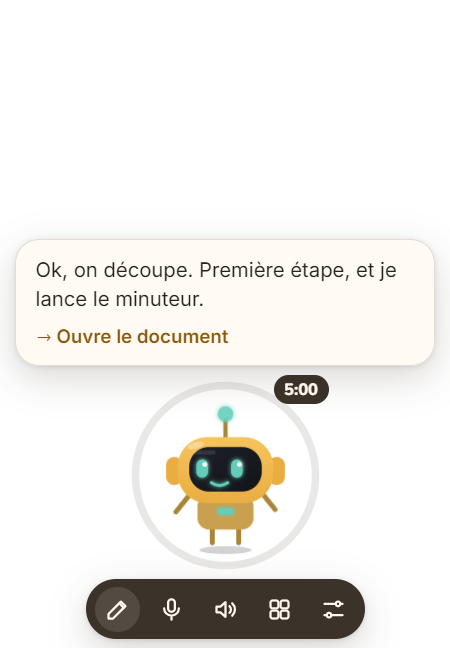
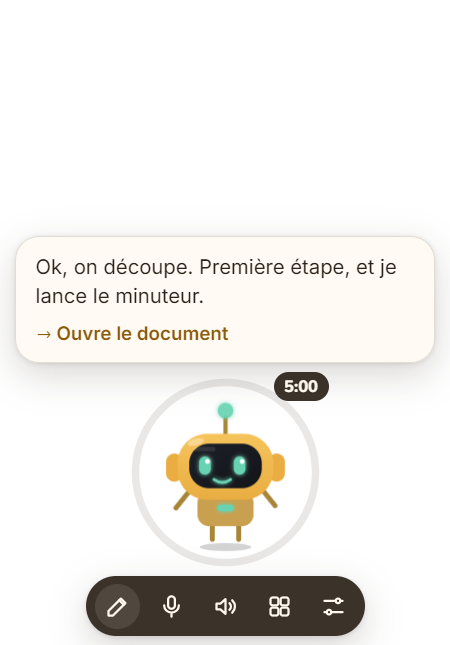
Fenetre de Nox : toujours entierement visible, taille reglable (petit/moyen/grand), mode discret (icone pres de l'horloge, Ctrl+Alt+N)

diff --git a/main.js b/main.js
@@ -35,7 +35,7 @@ const APPS = { word: 'winword', excel: 'excel', bloc: 'notepad', notepad: 'notep
 // Sites de travail que Nox peut ouvrir sans que l'utilisateur ait cite le domaine
 const SAFE_SITES = ['docs.google.com', 'drive.google.com', 'notion.so', 'office.com', 'github.com', 'chatgpt.com'];
 // Reglages modifiables depuis l'interface (le reste de l'etat est gere ici)
-const SETTINGS_KEYS = ['mode', 'firmness', 'watchWindows', 'watchAsked', 'method', 'lang'];
+const SETTINGS_KEYS = ['mode', 'firmness', 'watchWindows', 'watchAsked', 'method', 'lang', 'size'];
 
 // Dossier de donnees isole pour les tests (avant le verrou, qui en depend)
 if (process.env.NOX_USER_DATA) app.setPath('userData', process.env.NOX_USER_DATA);
@@ -59,6 +59,8 @@ let state = {
   facts: [], journal: [], stats: {}, method: null,
   demoMode: false,            // essayer sans cle OpenAI (cerveau local)
   lang: null,                 // fr | en : interface et conversation (par defaut, langue du systeme)
+  size: 'm',                  // taille de Nox : s | m | l
+  hidden: false,              // mode discret : Nox cache, rappele par l'icone pres de l'horloge ou Ctrl+Alt+N
   secrets: {},                // cle OpenAI, mot de passe Gmail, jeton Telegram : chiffres (safeStorage)
   calendar: { url: '', notified: {}, lastReview: '' },
   mail: { user: '', lastUid: 0, watches: [], pending: [] },
@@ -127,16 +129,76 @@ function broadcast(channel, payload) { for (const w of [win, dash]) if (w && !w.
 
 // ---------- Fenetres ----------
 const WEB_PREFS = { preload: path.join(__dirname, 'preload.js'), contextIsolation: true, autoplayPolicy: 'no-user-gesture-required' };
+// Taille de Nox : petit, moyen, grand (fenetre et contenu agrandis ensemble)
+const SIZES = { s: 0.8, m: 1, l: 1.3 };
+const BASE_W = 300, BASE_H = 430; // assez haut pour une carte de question complete au-dessus de la mascotte
+const zoom = () => SIZES[state.size] || 1;
+
+// Place la fenetre entierement dans la zone visible de l'ecran (barre des taches exclue).
+// Sans position connue : en bas a droite. Sinon : on garde le coin bas-droit ou il etait.
+function placeWindow(first = false) {
+  if (!win || win.isDestroyed()) return;
+  const W = Math.round(BASE_W * zoom()), H = Math.round(BASE_H * zoom());
+  const old = win.getBounds();
+  const anchor = first ? null : { x: old.x + old.width, y: old.y + old.height };
+  const wa = screen.getDisplayNearestPoint(anchor || screen.getCursorScreenPoint()).workArea;
+  let x = anchor ? anchor.x - W : wa.x + wa.width - W - 16;
+  let y = anchor ? anchor.y - H : wa.y + wa.height - H - 8;
+  x = Math.min(Math.max(x, wa.x), wa.x + wa.width - W);
+  y = Math.min(Math.max(y, wa.y), wa.y + wa.height - H);
+  win.setBounds({ x, y, width: W, height: H });
+  win.webContents.setZoomFactor(zoom());
+}
+
 function createWindow() {
-  const { width, height } = screen.getPrimaryDisplay().workAreaSize;
-  const W = 300, H = 430; // assez haut pour une carte de question complete au-dessus de la mascotte
+  const wa = screen.getPrimaryDisplay().workArea;
   win = new BrowserWindow({
-    width: W, height: H, x: width - W - 16, y: height - H - 8,
+    width: BASE_W, height: BASE_H, x: wa.x + wa.width - BASE_W - 16, y: wa.y + wa.height - BASE_H - 8,
     frame: false, transparent: true, resizable: false, alwaysOnTop: true,
-    skipTaskbar: true, hasShadow: false, webPreferences: WEB_PREFS
+    skipTaskbar: true, hasShadow: false, show: false, webPreferences: WEB_PREFS
   });
   win.setAlwaysOnTop(true, 'floating');
   win.loadFile('index.html');
+  win.webContents.on('did-finish-load', () => placeWindow(true));
+  // Toujours au premier plan, sans voler le focus de ce que l'utilisateur fait
+  win.once('ready-to-show', () => { if (!state.hidden) { win.showInactive(); win.moveTop(); } });
+  // Ecran change (branche, debranche, resolution) : Nox reste visible
+  screen.on('display-metrics-changed', () => placeWindow());
+  screen.on('display-removed', () => placeWindow(true));
+}
+
+// ---------- Mode discret : icone pres de l'horloge + raccourci ----------
+let tray = null;
+function toggleNox(show = win && !win.isVisible()) {
+  if (!win || win.isDestroyed()) return;
+  state.hidden = !show;
+  if (show) { win.showInactive(); win.moveTop(); placeWindow(); } else win.hide();
+  saveState();
+  buildTray();
+}
+function setSize(size) {
+  if (!SIZES[size]) return;
+  state.size = size;
+  placeWindow();
+  saveState();
+  buildTray();
+}
+function buildTray() {
+  const { Tray, Menu, nativeImage } = require('electron');
+  if (!tray) {
+    const icon = nativeImage.createFromPath(path.join(__dirname, 'assets', 'icon.png')).resize({ width: 32, height: 32 });
+    tray = new Tray(icon);
+    tray.setToolTip(NAME);
+    tray.on('click', () => toggleNox());
+  }
+  const visible = win && !win.isDestroyed() && win.isVisible();
+  tray.setContextMenu(Menu.buildFromTemplate([
+    { label: tr(visible ? 'tray.hide' : 'tray.show'), click: () => toggleNox(!visible) },
+    { label: tr('tray.dashboard'), click: () => openDashboard() },
+    { label: tr('prefs.size'), submenu: ['s', 'm', 'l'].map((k) => ({ label: tr(`size.${k}`), type: 'radio', checked: (state.size || 'm') === k, click: () => setSize(k) })) },
+    { type: 'separator' },
+    { label: tr('tray.quit'), click: () => app.quit() }
+  ]));
 }
 
 // Tableau de bord : vraie fenetre, matiere Mica sous Windows 11
@@ -651,7 +713,10 @@ ipcMain.handle('nox:setSettings', (_e, s) => {
   const before = state.method;
   for (const k of SETTINGS_KEYS) if (k in s) state[k] = s[k];
   if (s.method !== undefined && !memory.METHODS[state.method]) state.method = null;
+  if (!SIZES[state.size]) state.size = 'm';
   saveState(); syncWindowWatcher();
+  if ('size' in s) placeWindow();
+  if ('size' in s || 'lang' in s) buildTray();
   // Nouvelle methode choisie : Nox l'annonce et propose le minuteur adapte
   if (s.method && s.method !== before && state.profile.onboardedAt) {
     const m = catalog().methods[s.method];
@@ -686,6 +751,8 @@ ipcMain.handle('nox:newTask', async (_e, text) => {
 });
 ipcMain.on('nox:startTimer', (_e, min) => send('nox:startTimer', Number(min) || memory.timerMinutes(state)));
 ipcMain.on('nox:openDashboard', () => openDashboard());
+ipcMain.on('nox:hide', () => toggleNox(false));
+ipcMain.on('nox:show', () => toggleNox(true));
 // Salutation au lancement : Nox parle en premier
 ipcMain.handle('nox:greet', () => {
   const h = new Date().getHours();
@@ -720,6 +787,11 @@ app.whenReady().then(() => {
   loadState();
   session.defaultSession.setPermissionRequestHandler((_wc, perm, cb) => cb(perm === 'media'));
   createWindow();
+  buildTray();
+  // Ctrl+Alt+N : cacher / rappeler Nox depuis n'importe ou
+  const { globalShortcut } = require('electron');
+  globalShortcut.register('CommandOrControl+Alt+N', () => toggleNox());
+  app.on('will-quit', () => globalShortcut.unregisterAll());
   syncWindowWatcher();
   setInterval(tick, 3000);
   // Connexions : agenda toutes les 5 min, mails toutes les 3 min, Telegram en ecoute continue

diff --git a/index.html b/index.html
@@ -153,6 +153,8 @@
   .panel p { color:var(--ink-soft); line-height:1.45; }
   .panel b { color:var(--ink); }
   .panel label { display:flex; gap:6px; align-items:flex-start; }
+  .panel label:has(select) { align-items:center; }
+  .panel label:has(select) > span { flex:none; min-width:52px; }
   .panel select, .panel input:not([type]) { width:100%; padding:5px 8px; border-radius:var(--radius-sm); border:1px solid var(--line);
     background:var(--surface-2); color:var(--ink); font-size:var(--text-sm); }
   .panel input[type="checkbox"] { accent-color:var(--nox-blue); margin-top:2px; }
@@ -194,10 +196,13 @@
       <select id="pMode"><option value="travail" data-i18n="mode.travail"></option><option value="etudes" data-i18n="mode.etudes"></option><option value="repos" data-i18n="mode.repos"></option><option value="off" data-i18n="mode.off"></option></select></label>
     <label><span data-i18n="prefs.firm"></span>
       <select id="pFirm"><option value="douce" data-i18n="firm.douce"></option><option value="normale" data-i18n="firm.normale"></option><option value="stricte" data-i18n="firm.stricte"></option></select></label>
+    <label><span data-i18n="prefs.size"></span>
+      <select id="pSize"><option value="s" data-i18n="size.s"></option><option value="m" data-i18n="size.m"></option><option value="l" data-i18n="size.l"></option></select></label>
     <label><input type="checkbox" id="pWatch"> <span data-i18n="prefs.watch"></span></label>
     <button class="ghost" id="pDash" data-i18n="prefs.dash"></button>
     <button class="ghost" id="pOnboard" data-i18n="prefs.onboard"></button>
     <button class="ghost" id="pReset" data-i18n="prefs.reset"></button>
+    <button class="ghost" id="pHide" data-i18n="prefs.hide"></button>
     <button class="ghost" id="pQuit" data-i18n="prefs.quit"></button>
     <button class="go" id="pSave" data-i18n="prefs.ok"></button>
   </div>

diff --git a/i18n.js b/i18n.js
@@ -16,6 +16,8 @@ const STRINGS = {
     'firm.douce': 'Tout doux', 'firm.normale': 'Normal', 'firm.stricte': 'Coach',
     'prefs.watch': "Voir l'appli / l'onglet actif", 'prefs.dash': 'Ouvrir le tableau de bord', 'prefs.onboard': "Refaire l'onboarding",
     'prefs.reset': 'Terminer la tâche en cours', 'prefs.quit': 'Quitter Nox', 'prefs.ok': 'OK',
+    'prefs.size': 'Taille', 'size.s': 'Petit', 'size.m': 'Moyen', 'size.l': 'Grand', 'prefs.hide': 'Cacher Nox · Ctrl+Alt+N',
+    'tray.show': 'Afficher Nox', 'tray.hide': 'Cacher Nox', 'tray.dashboard': 'Tableau de bord', 'tray.quit': 'Quitter',
     'say.connecting': 'Je me connecte…', 'say.listening': "Je t'écoute, vas-y !", 'say.listeningShort': "Je t'écoute…",
     'say.oops': 'Oups : ', 'say.micOff': 'Micro coupé. Clique sur moi pour reparler.', 'say.notHeard': "Je n'ai pas bien entendu, tu peux répéter ?",
     'say.noMic': "Je n'ai pas accès au micro.", 'say.taskDone': 'Tâche terminée. Bravo !',
@@ -76,6 +78,8 @@ const STRINGS = {
     'firm.douce': 'Gentle', 'firm.normale': 'Normal', 'firm.stricte': 'Coach',
     'prefs.watch': 'See the active app / tab', 'prefs.dash': 'Open the dashboard', 'prefs.onboard': 'Redo onboarding',
     'prefs.reset': 'Finish the current task', 'prefs.quit': 'Quit Nox', 'prefs.ok': 'OK',
+    'prefs.size': 'Size', 'size.s': 'Small', 'size.m': 'Medium', 'size.l': 'Large', 'prefs.hide': 'Hide Nox · Ctrl+Alt+N',
+    'tray.show': 'Show Nox', 'tray.hide': 'Hide Nox', 'tray.dashboard': 'Dashboard', 'tray.quit': 'Quit',
     'say.connecting': 'Connecting…', 'say.listening': "I'm listening, go ahead!", 'say.listeningShort': "I'm listening…",
     'say.oops': 'Oops: ', 'say.micOff': 'Mic off. Click me to talk again.', 'say.notHeard': "I didn't quite catch that, can you say it again?",
     'say.noMic': "I can't access the microphone.", 'say.taskDone': 'Task done. Well done!',

diff --git a/renderer.js b/renderer.js
@@ -454,12 +454,12 @@ window.nox.onMail(async (m) => {
 // ---------- Reglages ----------
 $('settings').onclick = async () => {
   const st = await window.nox.getState();
-  $('pLang').value = st.lang; $('pMode').value = st.mode; $('pFirm').value = st.firmness; $('pWatch').checked = st.watchWindows;
+  $('pLang').value = st.lang; $('pSize').value = st.size || 'm'; $('pMode').value = st.mode; $('pFirm').value = st.firmness; $('pWatch').checked = st.watchWindows;
   $('prefs').classList.add('show');
 };
 $('pSave').onclick = async () => {
   const changed = $('pLang').value !== lang;
-  const st = await window.nox.setSettings({ lang: $('pLang').value, mode: $('pMode').value, firmness: $('pFirm').value, watchWindows: $('pWatch').checked, watchAsked: true });
+  const st = await window.nox.setSettings({ lang: $('pLang').value, size: $('pSize').value, mode: $('pMode').value, firmness: $('pFirm').value, watchWindows: $('pWatch').checked, watchAsked: true });
   $('prefs').classList.remove('show');
   if (changed) { await setLang(st.lang); if (Realtime.open) Realtime.close(); } // la voix reprend dans la nouvelle langue au prochain clic
   setMood(st.mode === 'repos' || st.mode === 'off' ? 'idle' : 'focus');
@@ -467,6 +467,7 @@ $('pSave').onclick = async () => {
 $('pReset').onclick = async () => { await window.nox.resetTask(); stopTimer(); $('prefs').classList.remove('show'); say(T('say.taskDone')); setMood('proud'); };
 $('pOnboard').onclick = async () => { $('prefs').classList.remove('show'); await window.nox.resetOnboarding(); runOnboarding(await window.nox.getState()); };
 $('pQuit').onclick = () => window.nox.quit();
+$('pHide').onclick = () => { $('prefs').classList.remove('show'); window.nox.hide(); };
 $('dashboard').onclick = () => window.nox.openDashboard();
 $('pDash').onclick = () => { $('prefs').classList.remove('show'); window.nox.openDashboard(); };
 

diff --git a/tests/e2e.js b/tests/e2e.js
@@ -121,6 +121,26 @@ const bubbleText = (page) => page.locator('#bubble').innerText();
     check('Mail sans rapport ignore', !matchWatch({ query: 'Marie Dupont' }, { from: 'Newsletter <news@x.fr>', subject: 'Promo' }));
     check('Mail urgent repere', looksImportant({ subject: 'Rappel : facture à régler', text: '' }) && !looksImportant({ subject: 'Les nouveautés de la semaine', text: '' }));
 
+    // 5e) Fenetre de Nox : visible en entier, taille reglable, mode discret
+    const bounds = () => app.evaluate(({ BrowserWindow, screen }) => {
+      const w = BrowserWindow.getAllWindows().find((x) => x.webContents.getURL().endsWith('index.html'));
+      const b = w.getBounds(), wa = screen.getDisplayMatching(b).workArea;
+      return { ...b, visible: w.isVisible(), inside: b.x >= wa.x && b.y >= wa.y && b.x + b.width <= wa.x + wa.width && b.y + b.height <= wa.y + wa.height };
+    });
+    let b = await bounds();
+    check('Nox entierement dans la zone visible', b.inside && b.visible, JSON.stringify(b));
+    await mascot.evaluate(() => window.nox.setSettings({ size: 'l' }));
+    await mascot.waitForTimeout(400);
+    b = await bounds();
+    check('Taille grand : fenetre agrandie et toujours visible', b.width === 390 && b.inside, `${b.width}x${b.height}`);
+    await mascot.evaluate(() => window.nox.setSettings({ size: 'm' }));
+    await mascot.evaluate(() => window.nox.hide());
+    await mascot.waitForTimeout(400);
+    check('Mode discret : Nox cache', !(await bounds()).visible);
+    await mascot.evaluate(() => window.nox.show());
+    await mascot.waitForTimeout(400);
+    check('Mode discret : Nox rappele', (await bounds()).visible);
+
     // 6) Relance : Nox se souvient
     await app.close();
     ({ app, mascot } = await launch());

diff --git a/preload.js b/preload.js
@@ -17,6 +17,8 @@ contextBridge.exposeInMainWorld('nox', {
   newTask: (text) => ipcRenderer.invoke('nox:newTask', text),
   startTimer: (min) => ipcRenderer.send('nox:startTimer', min),
   openDashboard: () => ipcRenderer.send('nox:openDashboard'),
+  hide: () => ipcRenderer.send('nox:hide'),
+  show: () => ipcRenderer.send('nox:show'),
   onState: (cb) => ipcRenderer.on('nox:state', (_e, d) => cb(d)),
   onStartTimer: (cb) => ipcRenderer.on('nox:startTimer', (_e, m) => cb(m)),
   onAskWatch: (cb) => ipcRenderer.on('nox:askWatch', () => cb()),
